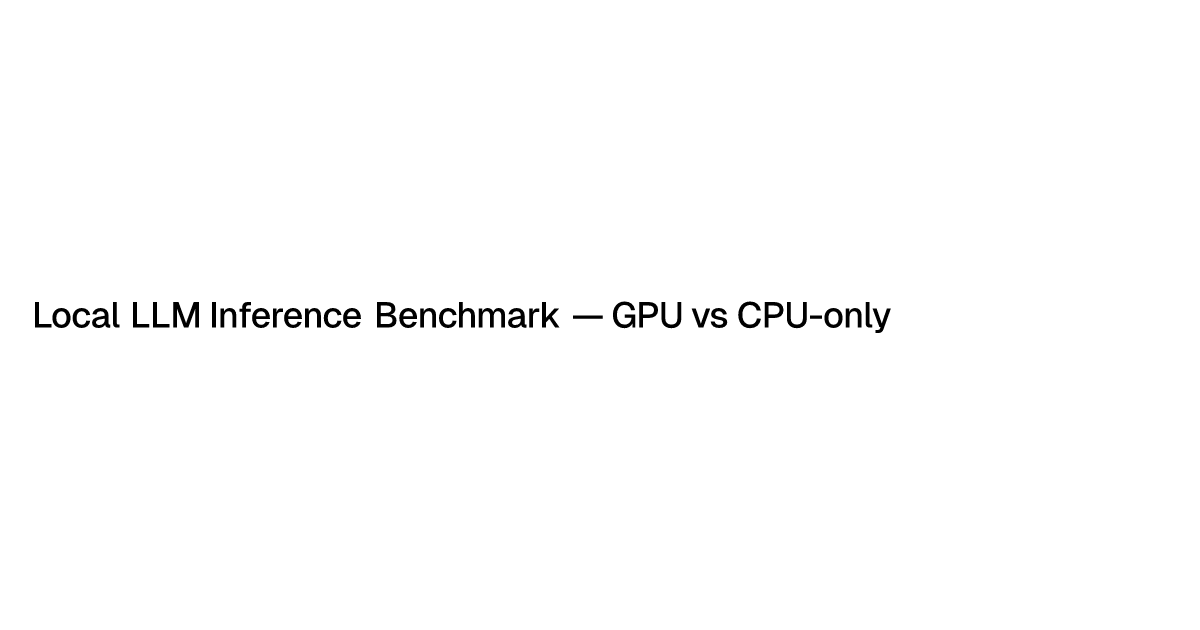
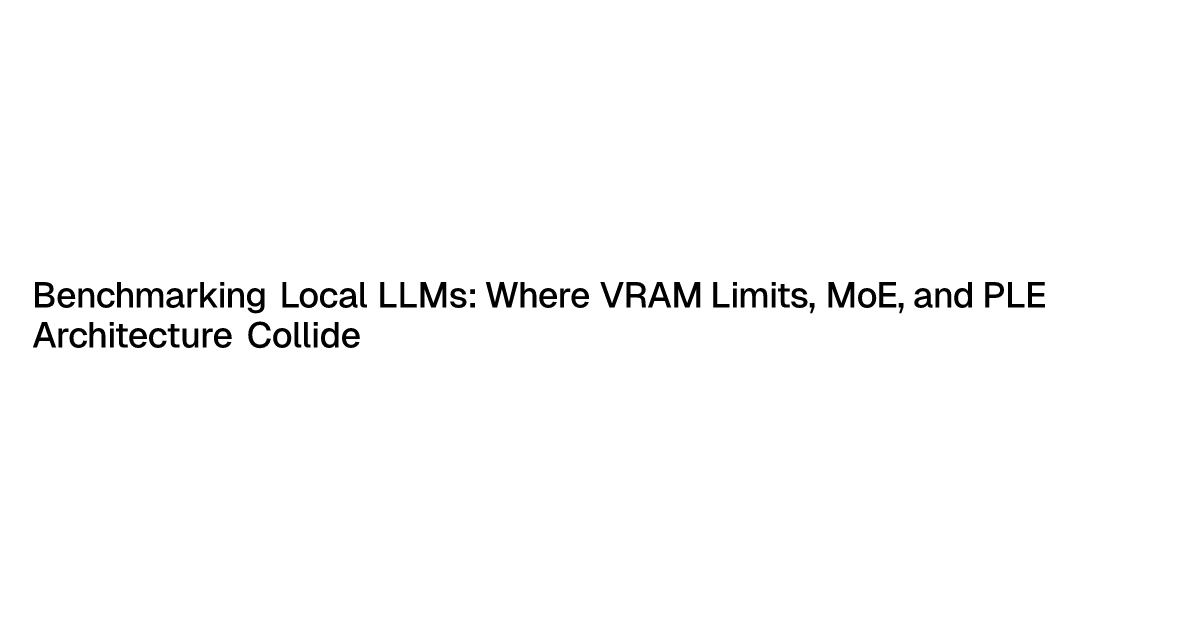
added bookmarks page and agents.md

Changed region(s): [[0.0308, 0.4524, 0.8633, 0.573]]

diff --git a/app/bookmarks/page.tsx b/app/bookmarks/page.tsx
@@ -1,0 +1,40 @@
+import { bookmarks } from "./data";
+
+export const metadata = {
+  title: "Bookmarks",
+  description:
+    "A collection of articles and tools I find insightful or useful.",
+};
+
+export default function BookmarksPage() {
+  return (
+    <section>
+      <h1 className="font-semibold text-2xl mb-2 tracking-tighter">Bookmarks</h1>
+      <p className="text-neutral-600 dark:text-neutral-400 text-sm mb-6">
+        A collection of articles and tools I find insightful or useful.
+      </p>
+      <ul className="divide-y divide-neutral-100 dark:divide-neutral-900">
+        {bookmarks.map((bookmark, index) => (
+          <li
+            key={bookmark.url}
+            className="py-2.5 flex items-center justify-between gap-2"
+          >
+            <div className="flex items-center gap-3 min-w-0">
+              <span className="text-xs text-neutral-400 dark:text-neutral-500 tabular-nums w-7 shrink-0 text-right select-none">
+                {index + 1}.
+              </span>
+              <a
+                href={bookmark.url}
+                target="_blank"
+                rel="noopener noreferrer"
+                className="text-neutral-900 dark:text-neutral-100 hover:underline truncate"
+              >
+                {bookmark.title}
+              </a>
+            </div>
+          </li>
+        ))}
+      </ul>
+    </section>
+  );
+}

diff --git a/app/bookmarks/data.ts b/app/bookmarks/data.ts
@@ -1,0 +1,19 @@
+export interface Bookmark {
+  title: string;
+  url: string;
+}
+
+export const bookmarks: Bookmark[] = [
+  {
+    title: "AI Evals: Everything You Need to Know",
+    url: "https://hamel.dev/blog/posts/evals-faq",
+  },
+  {
+    title: "LLM Inference Handbook",
+    url: "https://handbook.modular.com",
+  },
+  {
+    title: "Textures - Tactile image filters",
+    url: "https://texture.fayaz.workers.dev",
+  },
+];

diff --git a/app/sitemap.ts b/app/sitemap.ts
@@ -10,7 +10,7 @@ export default async function sitemap() {
     lastModified: post.metadata.publishedAt,
   }));
 
-  let routes = ["", "/blog"].map((route) => ({
+  let routes = ["", "/blog", "/bookmarks"].map((route) => ({
     url: `${baseUrl}${route}`,
     lastModified: new Date().toISOString().split("T")[0],
   }));

diff --git a/app/components/nav.tsx b/app/components/nav.tsx
@@ -7,6 +7,9 @@ const navItems = {
   "/blog": {
     name: "blog",
   },
+  "/bookmarks": {
+    name: "bookmarks",
+  },
 };
 
 export function Navbar() {

diff --git a/AGENTS.md b/AGENTS.md
@@ -1,0 +1,33 @@
+# ajaydandge.dev
+
+Personal website and engineering blog of Ajay Dandge.
+
+## Tech Stack
+
+- **Runtime & Package Manager**: Bun (`bun run dev`, `bun run build`)
+- **Framework**: Next.js 15 (App Router)
+- **Export Target**: Pure static export (`output: "export"`) into `out/`
+- **Styling**: Tailwind CSS v4 (`@tailwindcss/postcss`) with system dark/light mode
+- **Typography**: Geist Sans (`geist/font/sans`)
+- **Blog Engine**: Local MDX posts (`app/blog/posts/*.mdx`) rendered via `next-mdx-remote`
+
+## Commands
+
+- `bun run dev` — Start local development server at `http://localhost:3000`
+- `bun run build` — Build production static export (always verify before concluding work)
+- `bun run serve` — Serve exported `out/` directory locally
+
+## Architecture & Structure
+
+- `app/` — Next.js App Router pages and layouts (`/`, `/blog`, `/bookmarks`)
+- `app/blog/posts/` — MDX blog posts with frontmatter (`title`, `publishedAt`, `summary`)
+- `app/bookmarks/` — Curated bookmarks list (`app/bookmarks/data.ts` with `title` and `url`)
+- `app/components/` — Shared UI components (nav, footer, pet widget, MDX renderer)
+
+## Key Invariants
+
+1. **Static Export Only**: All pages and routes must resolve at build time. Never introduce runtime server APIs (`cookies()`, `headers()`, or non-static route handlers).
+2. **Design Principles**: Minimalist monochrome palette (`border-neutral-200 dark:border-neutral-800`), simple text links with hover underlines, and `tabular-nums` for numbered lists. Avoid visual noise (unrequested redirect icons, badges, or stars).
+3. **Route Sync Checklist**: When adding or removing top-level routes, always update:
+   - Navigation in `app/components/nav.tsx`
+   - Route list in `app/sitemap.ts`

diff --git a/public/blog/local-llm-inference-benchmark-gpu-vs-cpu-only.md b/public/blog/local-llm-inference-benchmark-gpu-vs-cpu-only.md
@@ -1,5 +1,5 @@
 ---
-title: "Local LLM Inference Benchmark — GPU vs CPU-only"
+title: "Benchmarking Local LLMs: Where VRAM Limits, MoE, and PLE Architecture Collide"
 publishedAt: "2026-08-08"
 summary: "Benchmarking Google Gemma 4 (MoE, dense, PLE) and Mistral Small 3.2 on an NVIDIA GeForce RTX 4060 Ti (16GB VRAM, Intel Core i7-12700F, 32GB RAM) vs an Intel Core i5-13420H (16GB RAM, no discrete GPU) across VRAM offloading, prompt eval, and token generation."
 ---
